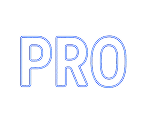
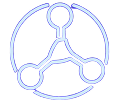
Frontend UI updates: button gradients, segmented toggle, pricing cards, and notification style
Detailed changes:\n\n- PrimaryButton: switched solid bg to gradient rom-[#FFC857] via-[#FF8A3C] via-[#FF3EC4] to-[#FF0040] + text color to gray #6B7280 (updated hover shadow).\n- SegmentedToggle: updated outer background gradient to linear-gradient(90deg, #FFC857 0%, #FF8A3C 35%, #FF3EC4 80%, #6C1CE7 100%); added vertical spacing my-4; changed sliding pill from solid pink to gradient matching design; preserved active/inactive label colors.\n- InvestorPricing: verified content mapping to design (plan titles, prices, features, CTA texts), and ensured Enterprise card uses filled gradient wrapper; no logic changes besides UI arrangement.\n- NotificationDrawer: added gradient and accent border treatment for toast and panel visuals; no backend behavior altered.\n- Updated multiple sections and pages for visual consistency: FoundersPricing, HowItWorksHero, LeaderHero, Home, HowItWorks, Pricing.\n- Added/updated assets: public/compare-plan.svg, public/pro.png, public/free.png, public/starter.png.\n\nAll changes are frontend presentation/UI-only; no backend routes/services or database changes.

Changed region(s): [[0.0756, 0.0, 0.9328, 0.9903], [0.1765, 0.3495, 0.3025, 0.4951]]

diff --git a/src/components/sections/HowItWorksHero.tsx b/src/components/sections/HowItWorksHero.tsx
@@ -20,15 +20,12 @@ const HowItWorksHero = () => {
 
       {/* Content */}
       <div className="absolute inset-0 flex flex-col items-center justify-end text-center px-4 sm:px-6 md:px-8 lg:px-10 pb-6 sm:pb-10 md:pb-14 z-20">
-        <h1 className="anybody text-white font-semibold font-[anybody ] text-[26px] sm:text-[34px] md:text-[42px] lg:text-[48px] leading-tight sm:leading-[50px] md:leading-[60px]">
-          From Code To Score <br />
-          In Minutes
+        <h1 className="text-white font-semibold text-lg sm:text-2xl md:text-4xl lg:text-5xl leading-tight">
+          Cybersecurity Assessment for <br /> Your Projects.
         </h1>
 
-        <p className="alexandria text-white/90 font-light mt-3 sm:mt-4 md:mt-5 font-[Alexandria] text-[13px] sm:text-[15px] md:text-[17px] lg:text-[18px] leading-relaxed tracking-[-0.02em] max-w-2xl">
-          NXELLENT scans your smart contracts and apps, applies industry-
-          <br className="hidden sm:block" />
-          grade rules, and generates a score investors can trust.
+        <p className="text-white/90 font-light mt-4 sm:mt-5 md:mt-6 text-xs sm:text-sm md:text-base lg:text-lg leading-relaxed tracking-tight max-w-2xl">
+          NXELLENT analyses your code identifies security risks, and produces decision grade risk <br /> intelligence with recommendations founders and investors can act on.
         </p>
 
         <img

diff --git a/src/pages/Home.tsx b/src/pages/Home.tsx
@@ -1,6 +1,4 @@
-import { ArrowUpRight } from "lucide-react";
 import CoreFeatures from "../components/sections/CoreFeatures";
-import CtaSection from "../components/sections/CtaSection";
 import Herosection from "../components/sections/Herosection";
 import TopProjects from "../components/sections/TopProjects";
 import Footer from "../components/sections/Footer";
@@ -11,7 +9,7 @@ const Home = () => {
       <Herosection />
       <CoreFeatures />
       <TopProjects />
-      <CtaSection
+      {/* <CtaSection
         heading="READY TO KICKSTART?"
         primary={{
           label: "Run Full Scan",
@@ -19,7 +17,7 @@ const Home = () => {
           whereTo: "projects/my-projects",
         }}
         secondary={{ label: "View Leaderboard", whereTo: "leaderboard" }}
-      />
+      /> */}
       <Footer />
     </>
   );

diff --git a/src/components/ui/SegmentedToggle.tsx b/src/components/ui/SegmentedToggle.tsx
@@ -22,7 +22,7 @@ const SegmentedToggle: React.FC<SegmentedToggleProps> = ({
       role="tablist"
       className="
         relative inline-flex items-center
-        rounded-[999px] p-1
+        rounded-[999px] p-1 my-7
         border border-[#FD7EFF]
         shadow-[0_0_6px_rgba(0,0,0,0.15)]
         overflow-hidden
@@ -33,7 +33,8 @@ const SegmentedToggle: React.FC<SegmentedToggleProps> = ({
       {/* Sliding pink pill — no overflow on either side */}
       <div
         className={[
-          "absolute inset-y-1 rounded-[999px] bg-[#FFC2C8] w-1/2",
+          "absolute inset-y-1 rounded-[999px] w-1/2",
+          "bg-gradient-to-r from-[#FFC857] via-[#FF8A3C] to-[#FF0040]",
           "transition-all duration-300 ease-out",
           value === "smart" ? "left-1 right-auto" : "right-1 left-auto",
         ].join(" ")}

diff --git a/src/pages/HowItWorks.tsx b/src/pages/HowItWorks.tsx
@@ -16,12 +16,11 @@ const HowItWorks = () => {
       <CtaSection
         heading={
           <>
-            Your Code is already being judged. <br />
-            Make sure it’s nxellent
+            Your code will be judged.<br />Make sure NXELLENT judges it first.
           </>
         }
         primary={{
-          label: "Submit Your Project",
+          label: "Run Full Scan",
           icon: <ArrowUpRight size={16} />,
           whereTo: "projects/my-projects",
         }}

diff --git a/src/components/sections/FoundersPricing.tsx b/src/components/sections/FoundersPricing.tsx
@@ -34,7 +34,7 @@ const plans: Plan[] = [
         title: "Free",
         price: "$0",
         cadence: "forever",
-        icon: "/speaker.png",
+        icon: "/free.png",
         features: [
             "1 Public Scan",
             "Basic Badge",
@@ -49,7 +49,7 @@ const plans: Plan[] = [
         title: "Starter",
         price: "$29",
         cadence: "per month",
-        icon: "/power.png",
+        icon: "/starter.png",
         features: [
             "3 Scans per Month",
             "Public + Private Scans",

diff --git a/src/components/ui/PrimaryButton.tsx b/src/components/ui/PrimaryButton.tsx
@@ -35,8 +35,8 @@ export default function PrimaryButton({
       type={type}
       onClick={handleClick}
       disabled={disabled}
-      className={`cursor-pointer px-10 py-4 rounded-[58px] bg-[#FFC2C8] text-[#1A1A1A] text-sm font-medium flex items-center justify-center gap-2.5 transition-all duration-300
-        hover:opacity-90 hover:shadow-[0_0_10px_rgba(255,194,200,0.4)]
+      className={`cursor-pointer px-10 py-4 rounded-[58px] bg-gradient-to-r from-[#FFC857] via-[#FF8A3C] via-[rgba(255,62,196,1)] to-[#FF0040] text-[#333333] text-sm font-medium flex items-center justify-center gap-2.5 transition-all duration-300
+        hover:opacity-90 hover:shadow-[0_0_10px_rgba(255,0,64,0.35)]
         disabled:opacity-50 disabled:cursor-not-allowed disabled:hover:shadow-none
         ${moreClasses}`}
     >

diff --git a/src/pages/Pricing.tsx b/src/pages/Pricing.tsx
@@ -81,8 +81,7 @@ const Pricing = () => {
       <CtaSection
         heading={
           <>
-            Your Code is already being judged. <br />
-            Make sure it’s nxellent
+            start your first nxellent scan today. <br /> prove your code is ready.
           </>
         }
         primary={{

diff --git a/src/components/sections/LeaderHero.tsx b/src/components/sections/LeaderHero.tsx
@@ -1,3 +1,4 @@
+import SegmentedToggle from "../ui/SegmentedToggle";
 import Navbar from "./Navbar";
 
 
@@ -23,6 +24,7 @@ const LeaderHero = () => {
         <p className="alexandria text-white/90 mt-3 sm:mt-4 font-[Alexandria] text-[16px] sm:text-[18px] md:text-[20px] leading-[100%] tracking-[-0.02em] max-w-2xl">
           See how the top projects stack up. Get inspired. Get competitive.
         </p>
+        <SegmentedToggle/>
       </div>
     </section>
   );